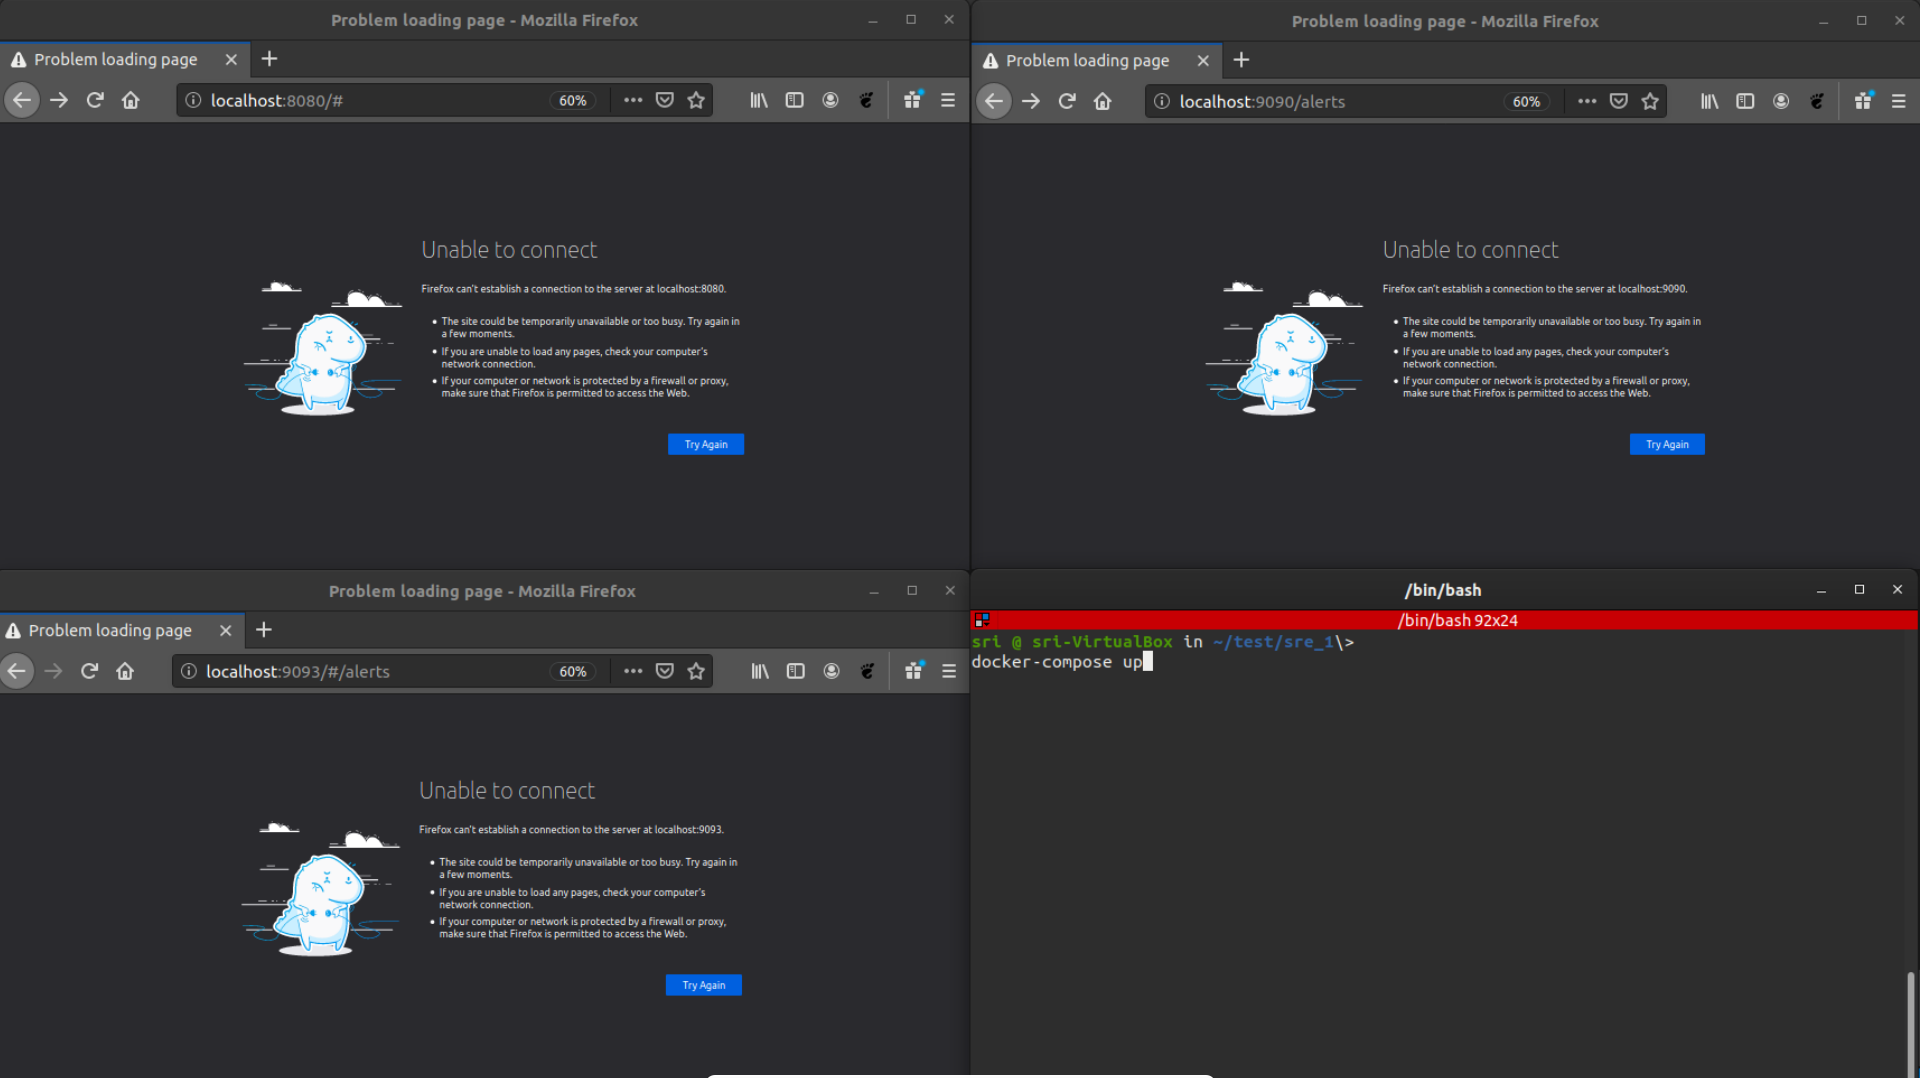
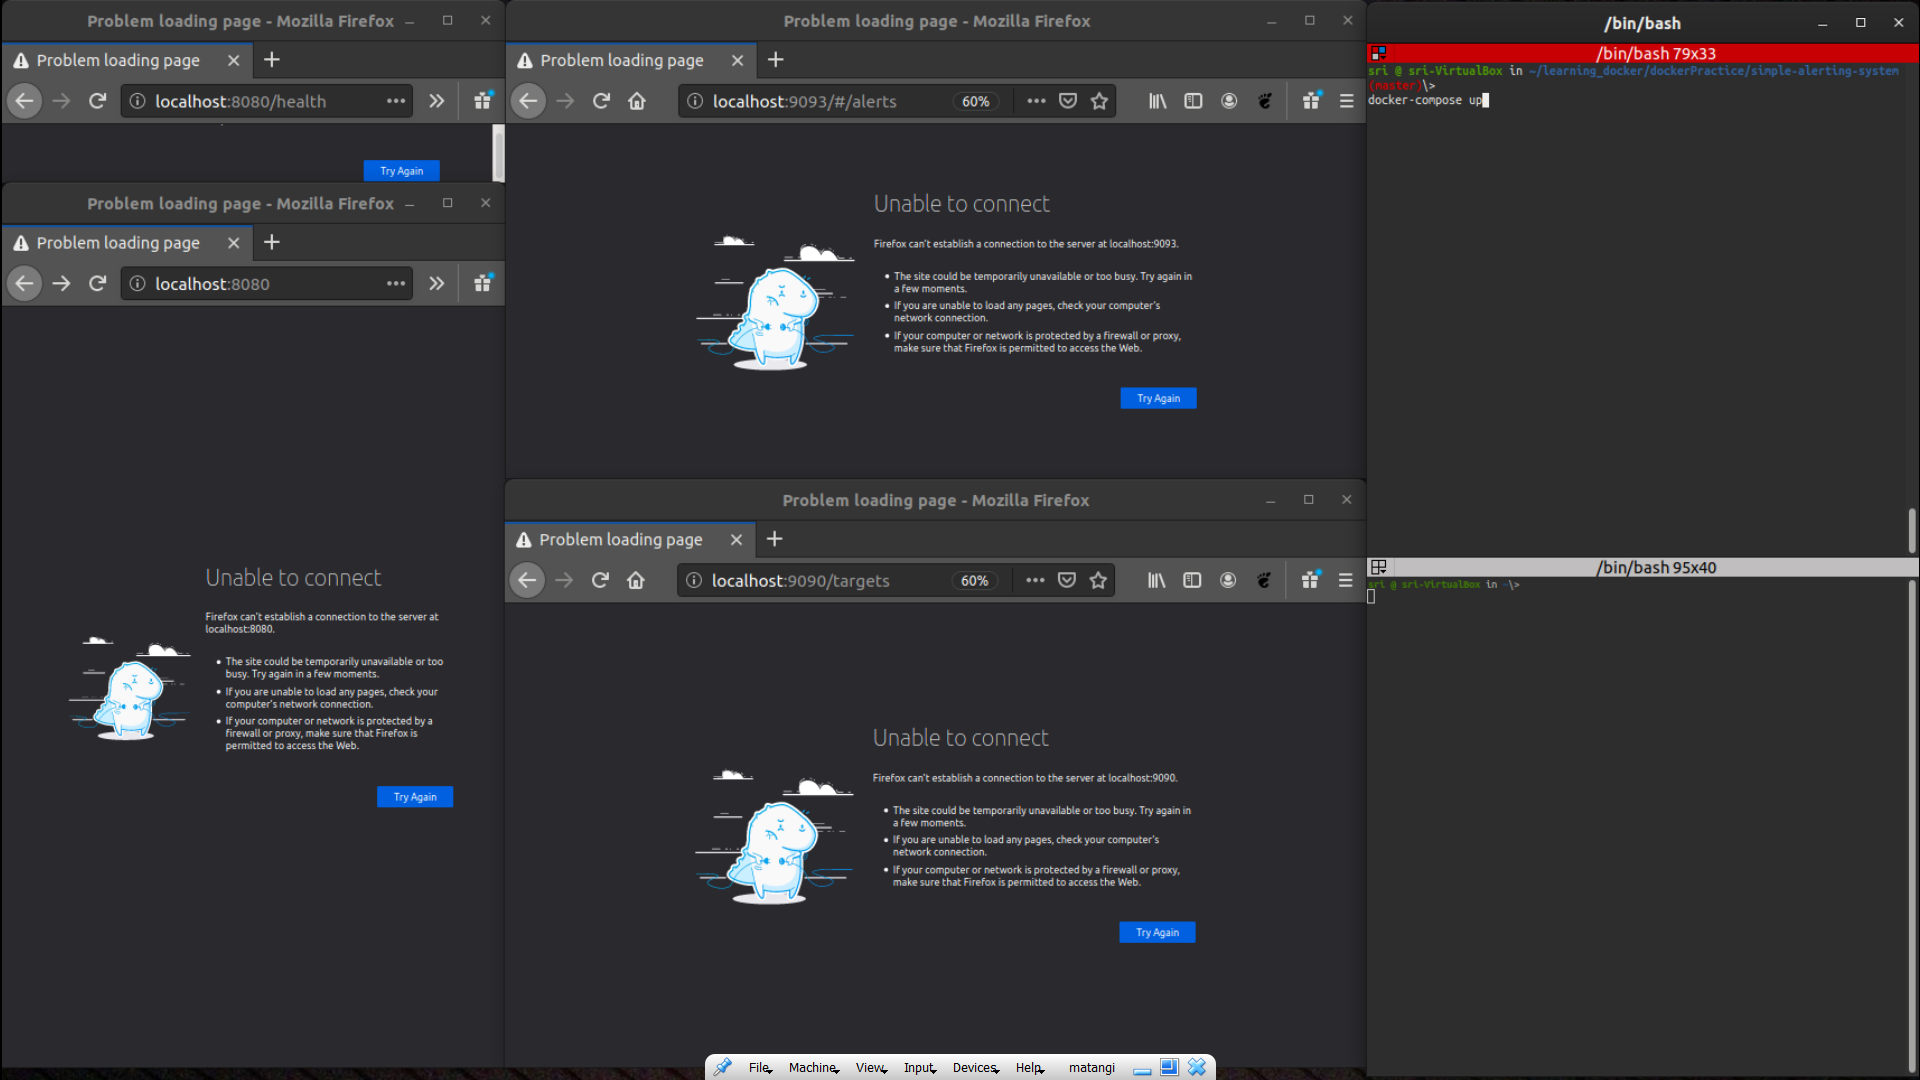
Rework on alerts mechanism and hack on nginx to expose helth metric. updating the readme with screen captures to reflect latest changes

diff --git a/README.md b/README.md
@@ -20,15 +20,17 @@
 ### Task implementation Plan
 1. Host a simple static app on Nginx sever that displays this task and its associated details.
 
-2. enable status_stubs on Nginx in configuration to be able to get metrics of the Nginx server.
+2. Enable status_stubs on Nginx in configuration to be able to get metrics of the Nginx server.
 
 3. This metrics need to be parserd in a way Prometheus can understand. To achieve this, use proxy_prometheus_exporter, which bridges Nginx and Prometheus.
 
-4. This parsed metrics has **nginx_up** token, which speaks about last successful scrape of the mertics exposed by nginx server. A value of 0 mean the scrape was unsuccessful and could mena the Nginx server is down.
+4. This parsed metrics has **nginx_up** token, which speaks about last successful scrape of the mertics exposed by nginx server. A value of 0 mean the scrape was unsuccessful and could mean the Nginx server is down.
 
-5. up token in general speaks about the status of the instance that is writing alerts to Prometheus. A value of 0 on this could mean that the exporter itself is down.
+5. **up** token in general speaks about the status of any instance that is configured to Prometheus. A value of 0 on this means that istance is down.
 
-6. Based on nginx_up and up tokens set up rules to fire alerts to alert manager  about Nginx and exporter  respectively.
+6. It is also possible to stub a health endpoint on nginx server and serve a simple atrig that is acceptable by prometheus. This end point can be configured to prometheus to know if the server is down. Whith out this stub it is not possible to configure Nginx to prometheus directly.
+
+6. Based on **nginx_up** and **up** and **nginx_running** (stubbed) tokens set up rules to fire alerts to alert manager about Nginx and exporter respectively.
    
 ### Build instrucions
 
@@ -39,34 +41,32 @@
    2. localhost:9113/metrics for looking at parsed metrics exposed by nginx on /stub_status
    3. localhost:9090/alerts for prometheus alerts
    4. localhost:9093 for alertmanger
+   ![](images/Capture1.PNG)
+   
+   ![](images/Capture2.PNG)
 
 ### Test instructions
 
-1. after successful buid
-2. at the repo root run `dockrer container stop proxy-app`
+1. after successful build
+2. at the repo root run `docker container stop proxy-app`
 3. This will stop the nginx container 
-4. after a minute once can observer event been calculated at prometheus an fired to alert manager.
-5. can obser ve the similar aler for `dockrer container stop proxy_prometheus_expo`
+   ![](images/Capture3.PNG)
+4. This is captured by prometheus.
+   ![](images/Capture4.PNG)
+5. This phenomenon creates two alerts.
+   1. Instance down as th Nginx server is Down.
+   2. Scrape faiulre alert as there were no metrics to scrape 
+   ![](images/Capture5.PNG)
+6. After 15-30 seconds (these values are used to the alert quicly) one can observer event been calculated at prometheus and fired to alert manager.
+   ![](images/Capture6.PNG)
+7. Can observe the similar alert for `docker container stop proxy-prometheus-expo` 
+   Note: stopping proxy-prometheus-expo container will result in scrape failure alert only.
 
-![](images/Capture1.PNG)
-
-![](images/Capture2.PNG)
-
-![](images/Capture3.PNG)
-
-![](images/Capture4.PNG)
-
-![](images/Capture5.PNG)
+### clean up
+   
+1. At the repo root run   `docker-compose down`
 
 ![](images/Capture6.PNG)
-
-![](images/Capture7.PNG)
-
-![](images/Capture8.PNG)
-
-![](images/Capture9.PNG)
-
-![](images/Capture10.PNG)
 
 ### Resources:
 1. inspiration : https://github.com/g00glen00b/movie-quote-app/blob/master/docker-compose.yml
